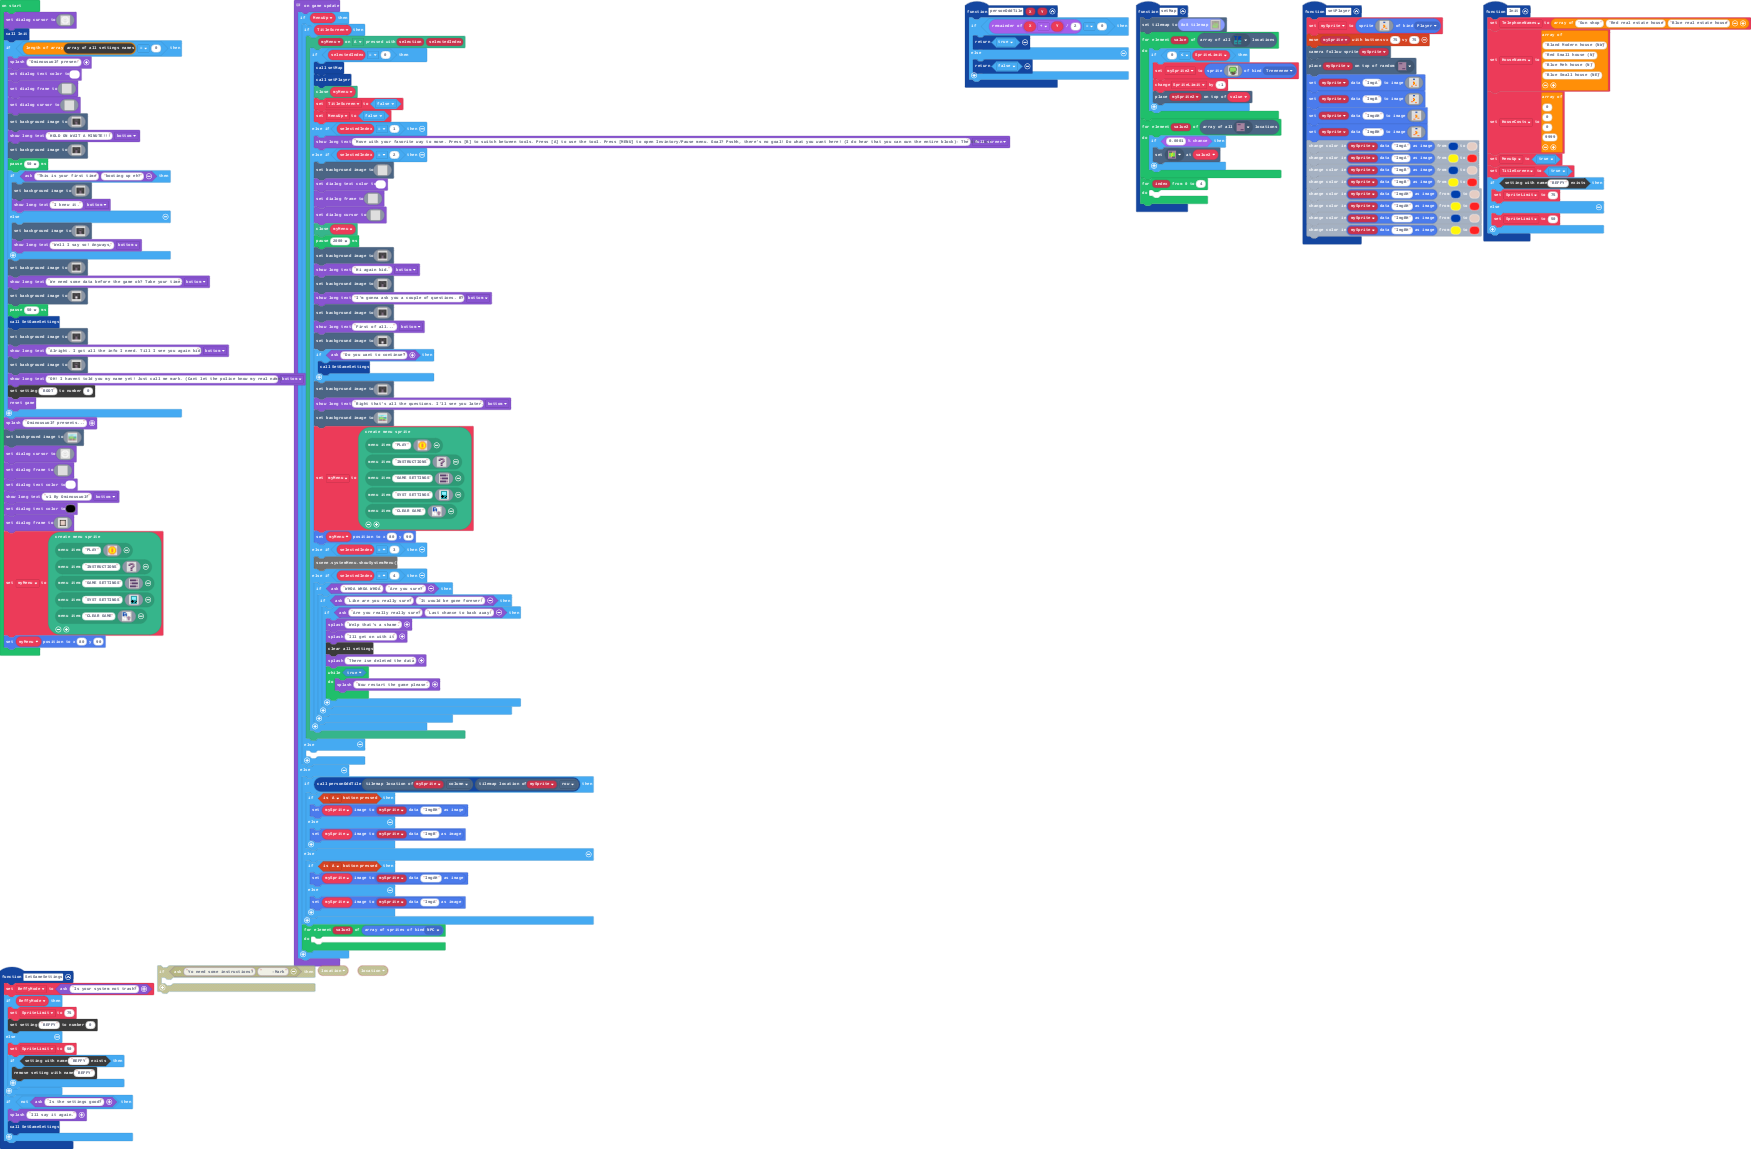
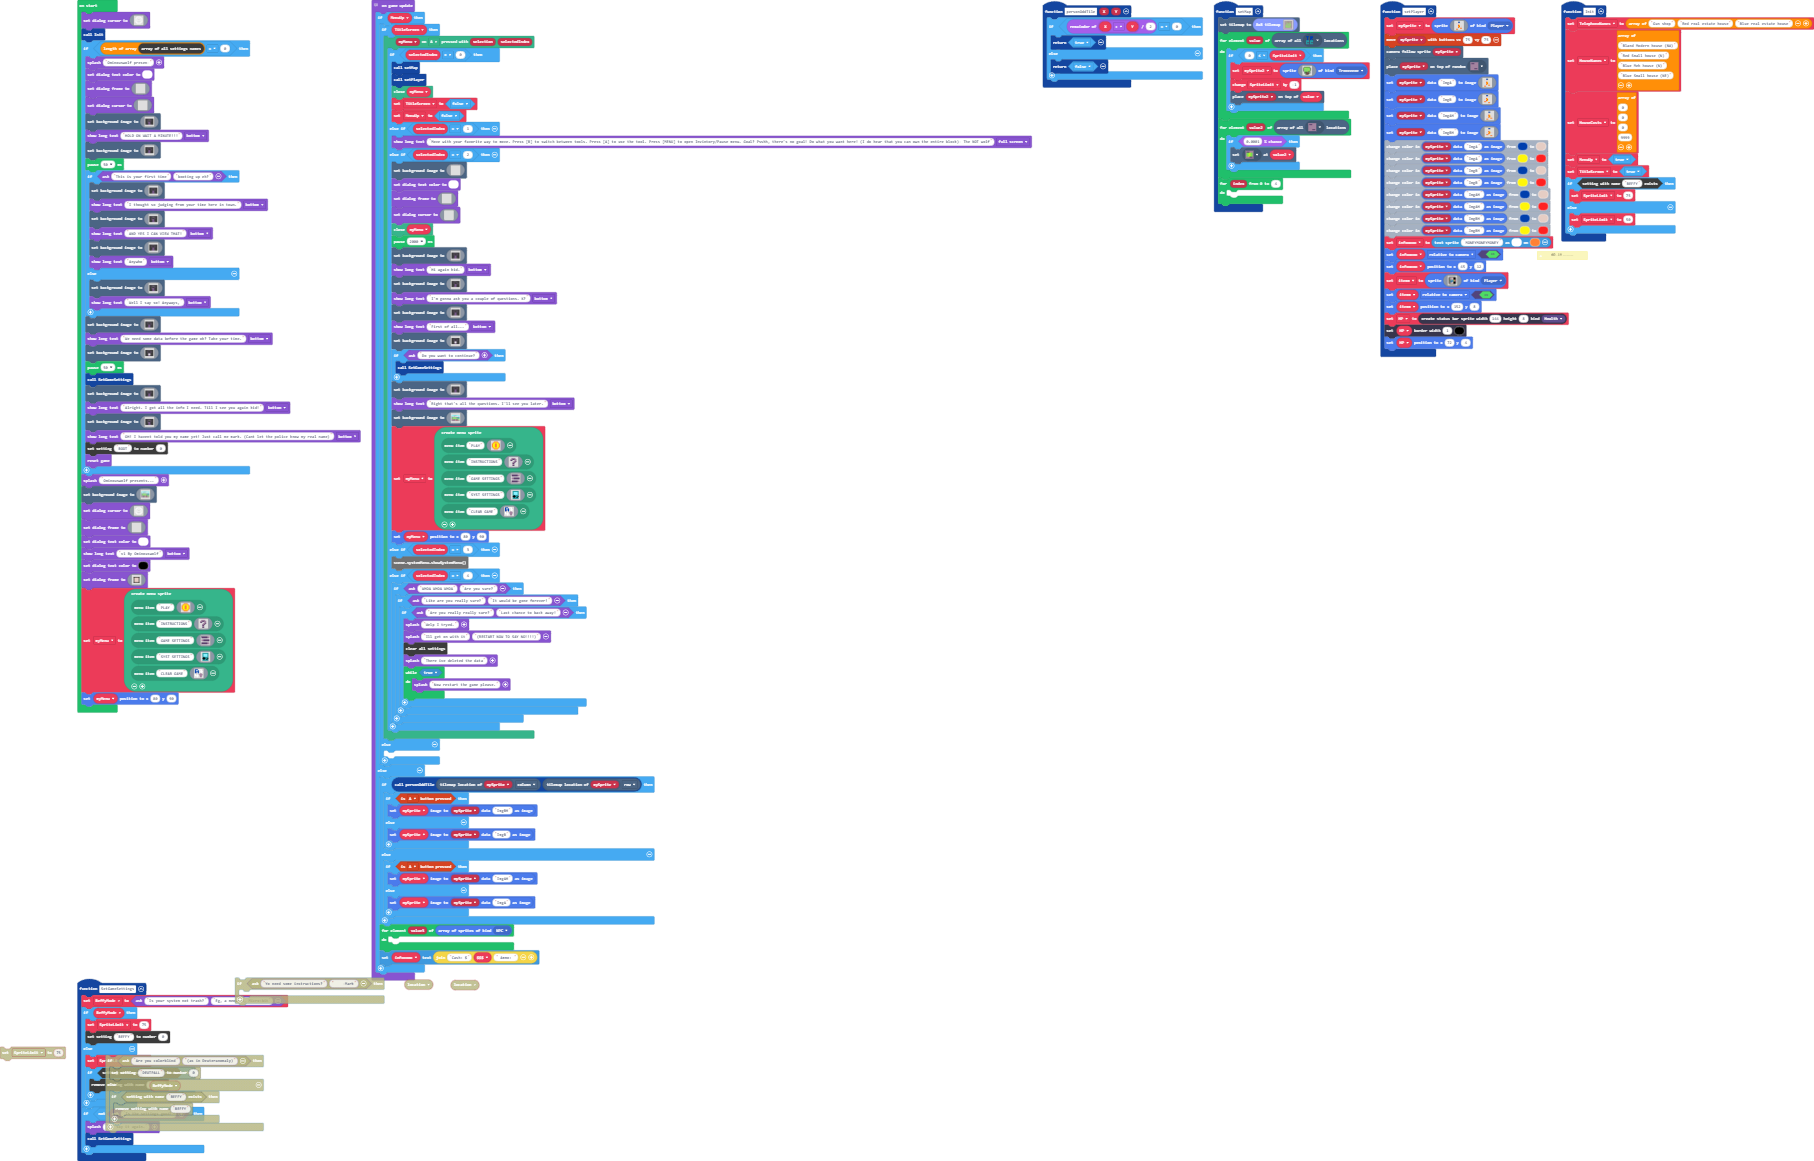
Texture stuff, and... something else I forgot it. =/

Changed region(s): [[0.0, 0.0, 0.586, 1.0], [0.5243, 0.0, 1.0, 0.3046]]

diff --git a/main.ts b/main.ts
@@ -20,6 +20,15 @@ function setMap () {
     	
     }
 }
+/**
+ * 60
+ * 
+ * -15
+ * 
+ * ------
+ * 
+ * _45
+ */
 function setPlayer () {
     mySprite = sprites.create(assets.image`PersonA`, SpriteKind.Player)
     controller.moveSprite(mySprite, 75, 75)
@@ -37,6 +46,15 @@ function setPlayer () {
     sprites.readDataImage(mySprite, "ImgAH").replace(5, 2)
     sprites.readDataImage(mySprite, "ImgBH").replace(8, 13)
     sprites.readDataImage(mySprite, "ImgBH").replace(5, 2)
+    infooooo = textsprite.create("MONEYMONEYMONEY", 4, 1)
+    infooooo.setFlag(SpriteFlag.RelativeToCamera, true)
+    infooooo.setPosition(45, 12)
+    itemm = sprites.create(assets.image`ItemSel`, SpriteKind.Player)
+    itemm.setFlag(SpriteFlag.RelativeToCamera, true)
+    itemm.setPosition(152, 8)
+    HP = statusbars.create(144, 8, StatusBarKind.Health)
+    HP.setBarBorder(1, 15)
+    HP.setPosition(72, 4)
 }
 function personOddTile (X: number, Y: number) {
     if ((X + Y) % 2 == 0) {
@@ -46,7 +64,7 @@ function personOddTile (X: number, Y: number) {
     }
 }
 function SetGameSettings () {
-    BeffyMode = game.ask("Is your system not trash?")
+    BeffyMode = game.ask("Is your system not trash?", "Eg, a meowbit, Micro:bit")
     if (BeffyMode) {
         SpriteLimit = 75
         blockSettings.writeNumber("BEFFY", 0)
@@ -89,6 +107,9 @@ let HouseCosts: number[] = []
 let HouseNames: string[] = []
 let TelephoneNames: string[] = []
 let BeffyMode = false
+let HP: StatusBarSprite = null
+let itemm: Sprite = null
+let infooooo: TextSprite = null
 let mySprite: Sprite = null
 let mySprite2: Sprite = null
 let SpriteLimit = 0
@@ -105,7 +126,11 @@ if (blockSettings.list().length == 0) {
     pause(50)
     if (game.ask("This is your first time", "booting up eh?")) {
         scene.setBackgroundImage(assets.image`Mark`)
-        game.showLongText("I knew it.", DialogLayout.Bottom)
+        game.showLongText("I thought so judging from your time here in town.", DialogLayout.Bottom)
+        scene.setBackgroundImage(assets.image`MarkSTOP`)
+        game.showLongText("AND YES I CAN VIEW THAT!", DialogLayout.Bottom)
+        scene.setBackgroundImage(assets.image`Mark`)
+        game.showLongText("Anywho", DialogLayout.Bottom)
     } else {
         scene.setBackgroundImage(assets.image`MarkSTOP`)
         game.showLongText("Well I say so! Anyways,", DialogLayout.Bottom)
@@ -314,8 +339,8 @@ game.onUpdate(function () {
                     if (game.ask("WHOA WHOA WHOA", "Are you sure?")) {
                         if (game.ask("Like are you really sure?", "It would be gone forever!")) {
                             if (game.ask("Are you really really sure?", "Last chance to back away!")) {
-                                game.splash("Welp that's a shame.")
-                                game.splash("Ill get on with it")
+                                game.splash("Welp I tryed.")
+                                game.splash("Ill get on with it", "(RESTART NOW TO SAY NO!!!!)")
                                 blockSettings.clear()
                                 game.splash("There ive deleted the data")
                                 while (true) {
@@ -330,6 +355,7 @@ game.onUpdate(function () {
         	
         }
     } else {
+        let $$$ = 0
         if (personOddTile(mySprite.tilemapLocation().column, mySprite.tilemapLocation().row)) {
             if (controller.A.isPressed()) {
                 mySprite.setImage(sprites.readDataImage(mySprite, "ImgBH"))
@@ -346,5 +372,6 @@ game.onUpdate(function () {
         for (let value3 of sprites.allOfKind(SpriteKind.NPC)) {
         	
         }
+        infooooo.setText("Cash: $" + $$$ + " Ammo: ")
     }
 })

diff --git a/tilemap.g.ts b/tilemap.g.ts
@@ -35,12 +35,6 @@ namespace myTiles {
     //% fixedInstance jres blockIdentity=images._tile
     export const tile15 = image.ofBuffer(hex``);
     //% fixedInstance jres blockIdentity=images._tile
-    export const tile16 = image.ofBuffer(hex``);
-    //% fixedInstance jres blockIdentity=images._tile
-    export const tile17 = image.ofBuffer(hex``);
-    //% fixedInstance jres blockIdentity=images._tile
-    export const tile18 = image.ofBuffer(hex``);
-    //% fixedInstance jres blockIdentity=images._tile
     export const tile19 = image.ofBuffer(hex``);
     //% fixedInstance jres blockIdentity=images._tile
     export const tile20 = image.ofBuffer(hex``);
@@ -67,8 +61,6 @@ namespace myTiles {
     //% fixedInstance jres blockIdentity=images._tile
     export const tile30 = image.ofBuffer(hex``);
     //% fixedInstance jres blockIdentity=images._tile
-    export const tile35 = image.ofBuffer(hex``);
-    //% fixedInstance jres blockIdentity=images._tile
     export const tile32 = image.ofBuffer(hex``);
     //% fixedInstance jres blockIdentity=images._tile
     export const tile34 = image.ofBuffer(hex``);
@@ -88,6 +80,14 @@ namespace myTiles {
     export const tile33 = image.ofBuffer(hex``);
     //% fixedInstance jres blockIdentity=images._tile
     export const tile42 = image.ofBuffer(hex``);
+    //% fixedInstance jres blockIdentity=images._tile
+    export const tile16 = image.ofBuffer(hex``);
+    //% fixedInstance jres blockIdentity=images._tile
+    export const tile18 = image.ofBuffer(hex``);
+    //% fixedInstance jres blockIdentity=images._tile
+    export const tile17 = image.ofBuffer(hex``);
+    //% fixedInstance jres blockIdentity=images._tile
+    export const tile35 = image.ofBuffer(hex``);
 
     helpers._registerFactory("tilemap", function(name: string) {
         switch(helpers.stringTrim(name)) {
@@ -436,12 +436,6 @@ namespace myTiles {
             case "tile14":return tile14;
             case "stone":
             case "tile15":return tile15;
-            case "gunWindow0":
-            case "tile16":return tile16;
-            case "estateWindow0":
-            case "tile17":return tile17;
-            case "toolWindow":
-            case "tile18":return tile18;
             case "bankWindow":
             case "tile19":return tile19;
             case "woodWallA1":
@@ -468,8 +462,6 @@ namespace myTiles {
             case "tile29":return tile29;
             case "stoneWall":
             case "tile30":return tile30;
-            case "jobWindow":
-            case "tile35":return tile35;
             case "treeSpawn":
             case "tile32":return tile32;
             case "jobDoor":
@@ -490,6 +482,14 @@ namespace myTiles {
             case "tile33":return tile33;
             case "BUSSSHH":
             case "tile42":return tile42;
+            case "gunWindow0":
+            case "tile16":return tile16;
+            case "toolWindow":
+            case "tile18":return tile18;
+            case "estateWindow0":
+            case "tile17":return tile17;
+            case "jobWindow":
+            case "tile35":return tile35;
         }
         return null;
     })

diff --git a/images.g.ts b/images.g.ts
@@ -128,25 +128,6 @@ f777777777777777777777f.
 . 4 4 . . . . . 
 . . . . . 4 4 . 
 `;
-            case "image10":
-            case "ItemSel":return img`
-1 1 1 1 1 1 1 1 1 1 1 1 1 1 1 1 
-1 f f f f f f f f f f f f f f 1 
-1 f f d d d d d d d f f f f f 1 
-1 f f d d b b b d d f f f f f 1 
-1 f f d d b b b d d f f f f f 1 
-1 f f d d b b b d d f f f f f 1 
-1 f f d d d b d d b 4 4 4 4 f 1 
-1 f f 7 6 6 6 6 6 6 8 7 3 3 f 1 
-1 f f 7 6 8 6 8 8 8 7 7 3 3 f 1 
-1 f f d d 8 6 8 6 d 7 7 4 4 f 1 
-1 f f d b 6 6 b b d f f f f f 1 
-1 f f d 6 8 8 d d d f f f f f 1 
-1 f f d b d d d d d f f f f f 1 
-1 f f d d d d d d d f f f f f 1 
-1 f f f f f f f f f f f f f f 1 
-1 1 1 1 1 1 1 1 1 1 1 1 1 1 1 1 
-`;
             case "image1":
             case "TitleDraw":return img`
 99999999999999999999999999999999999999999999999999999999999999999999999999999999
@@ -1068,6 +1049,25 @@ fffffffffffffffffffffffffffffffffffffffffffffffffffffffffffffccccccccccccccccccc
 fffffffffffffffffffffffffffffffffffffffffffffffffffffffffffffccccccccccccccccccccccccccccccccccccccfffffffffffffffffffffffffffffffffffffffffffffffffffffffffffff
 fffffffffffffffffffffffffffffffffffffffffffffffffffffffffffffccccccccccccccccccccccccccccccccccccccfffffffffffffffffffffffffffffffffffffffffffffffffffffffffffff
 fffffffffffffffffffffffffffffffffffffffffffffffffffffffffffffccccccccccccccccccccccccccccccccccccccfffffffffffffffffffffffffffffffffffffffffffffffffffffffffffff
+`;
+            case "image10":
+            case "ItemSel":return img`
+1 1 1 1 1 1 1 1 1 1 1 1 1 1 1 1 
+1 f f f f f f f f f f f f f f 1 
+1 f f d d d d d d d f f f f f 1 
+1 f f d d b b b d d f f f f f 1 
+1 f f d d b b b d d f f f f f 1 
+1 f f d d b b b d d f f f f f 1 
+1 f f d d d b d d b 4 4 4 c f 1 
+1 f f 7 6 6 6 6 6 6 8 7 3 5 f 1 
+1 f f 7 6 8 6 8 8 8 7 7 3 2 f 1 
+1 f f d d 8 6 8 6 d 7 7 4 a f 1 
+1 f f d b 6 6 b b d f f f f f 1 
+1 f f d 6 8 8 d d d f f f f f 1 
+1 f f d b d d d d d f f f f f 1 
+1 f f d d d d d d d f f f f f 1 
+1 f f f f f f f f f f f f f f 1 
+1 1 1 1 1 1 1 1 1 1 1 1 1 1 1 1 
 `;
         }
         return null;
